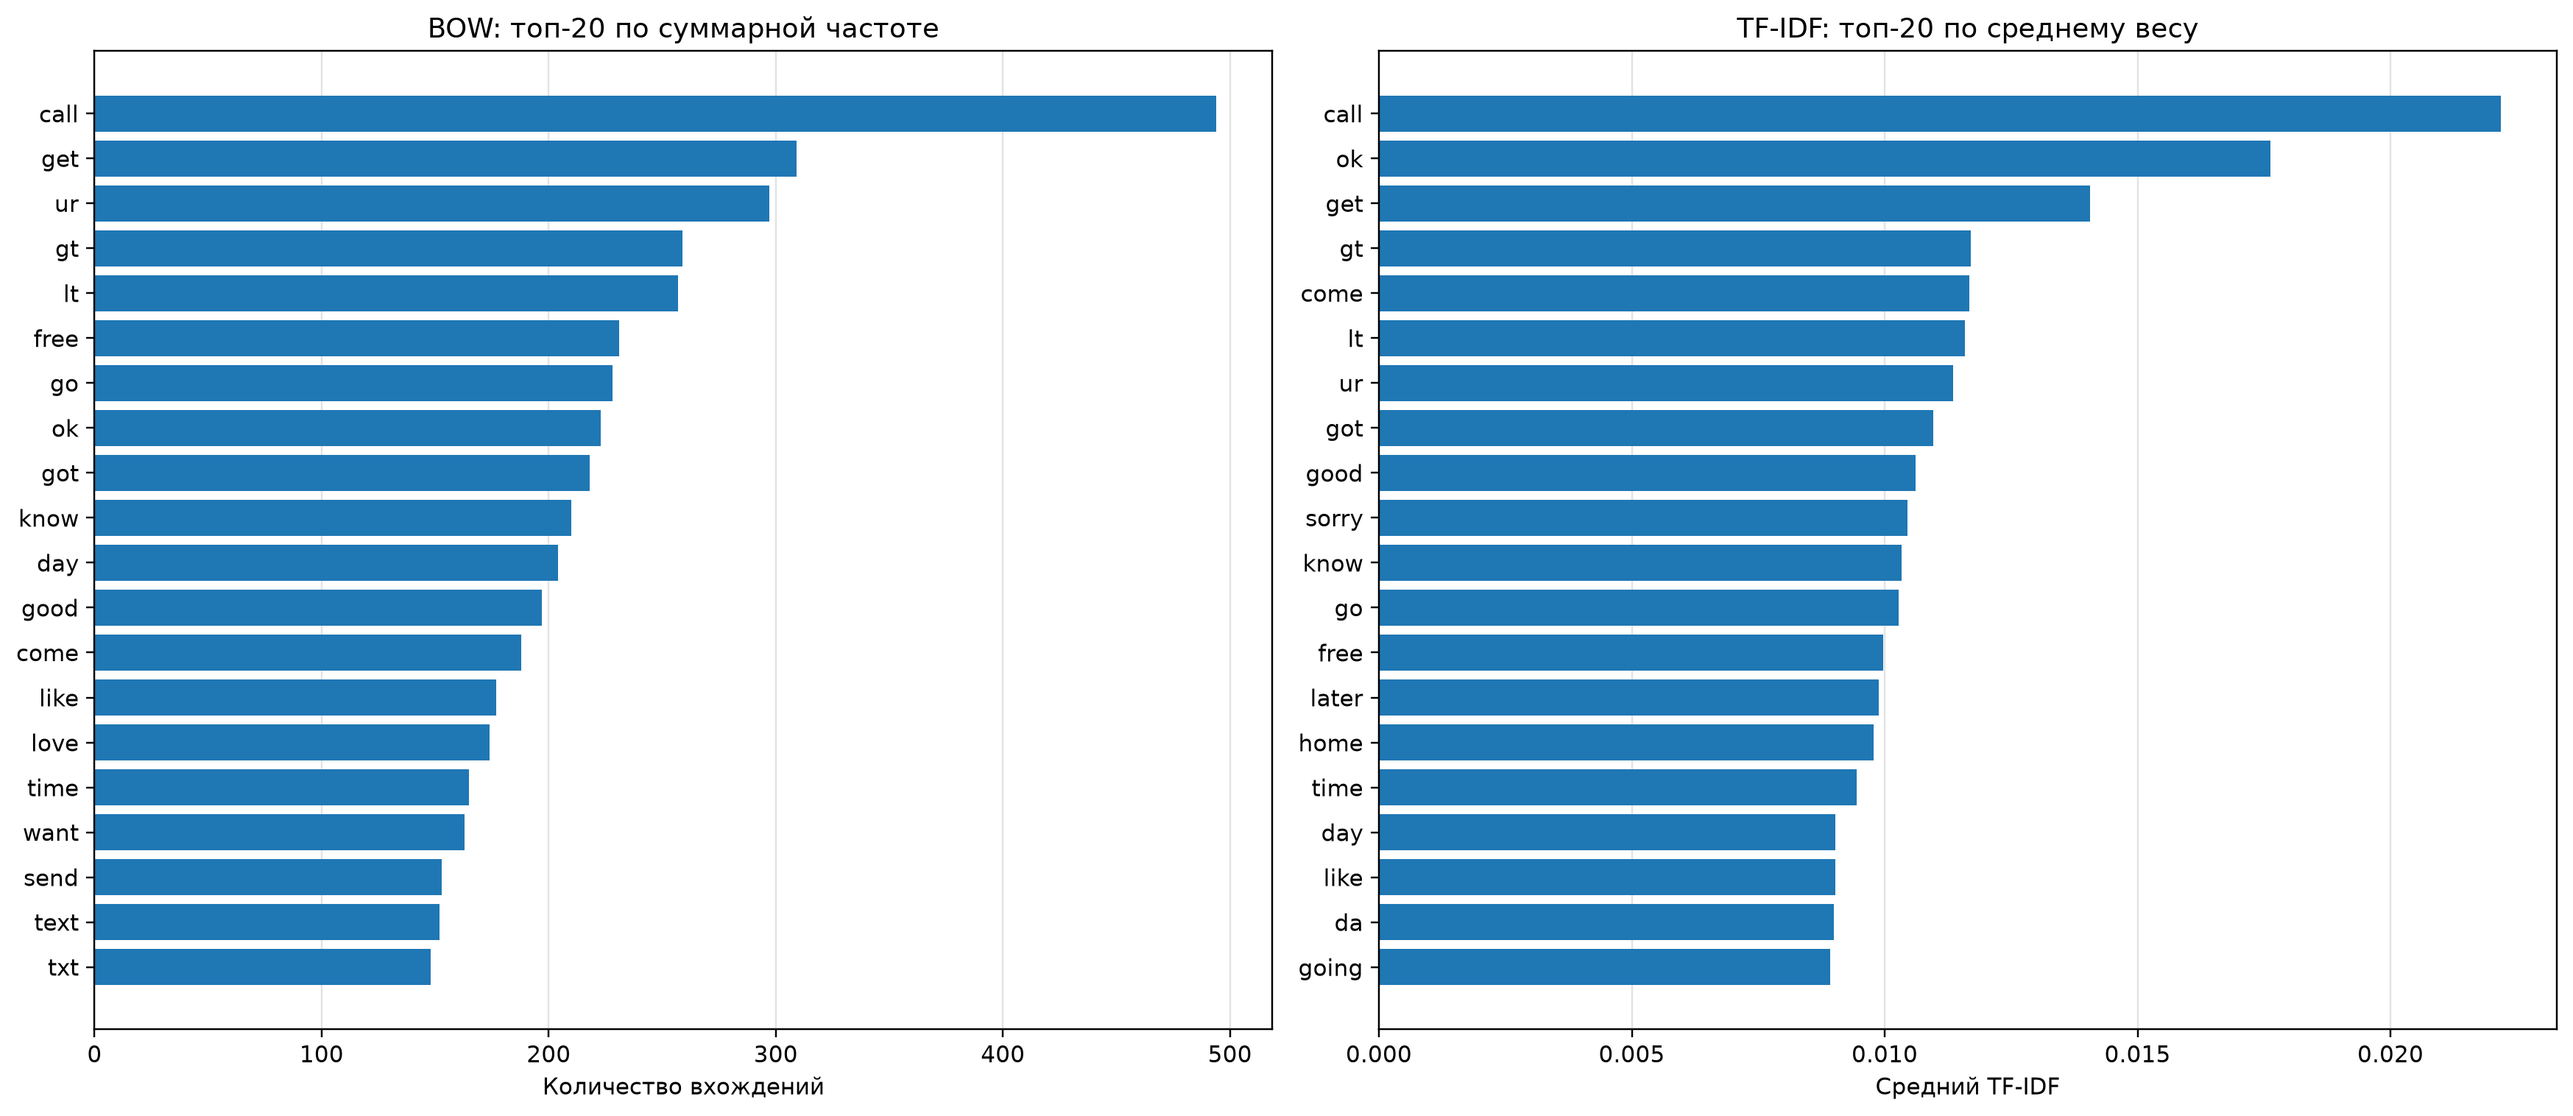
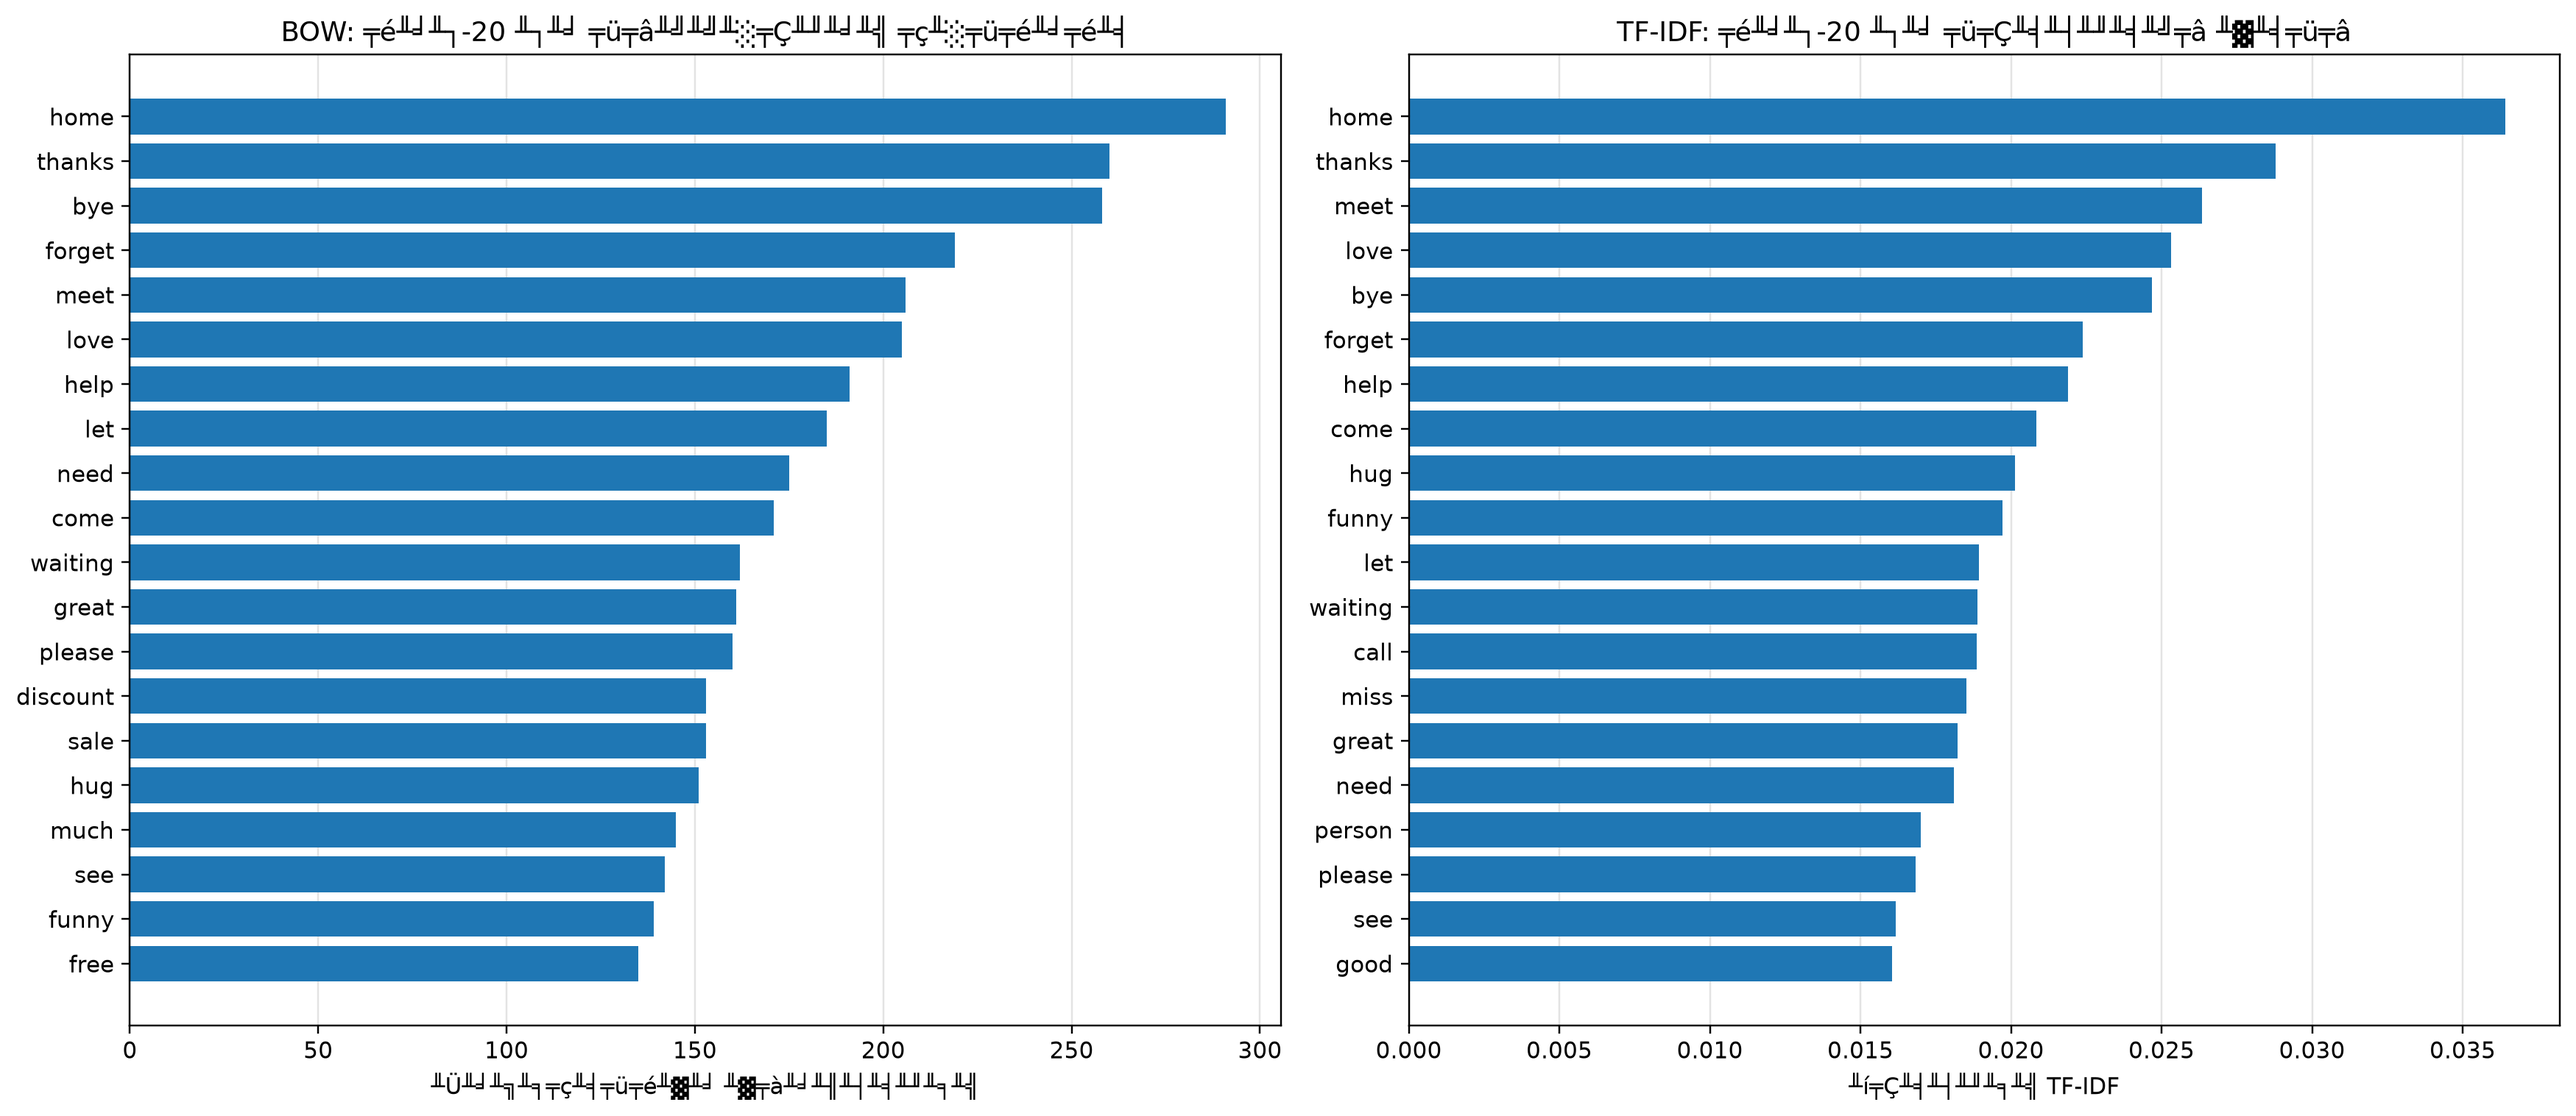
Fix: add sys.path import to week4 script and regenerate charts

Changed region(s): [[0.0, 0.0, 0.998, 0.9921]]

diff --git a/scripts/week4_vectorization.py b/scripts/week4_vectorization.py
@@ -1,4 +1,6 @@
 from pathlib import Path
+import sys
+sys.path.insert(0, str(Path(__file__).resolve().parents[1]))
 
 import matplotlib.pyplot as plt
 import pandas as pd
